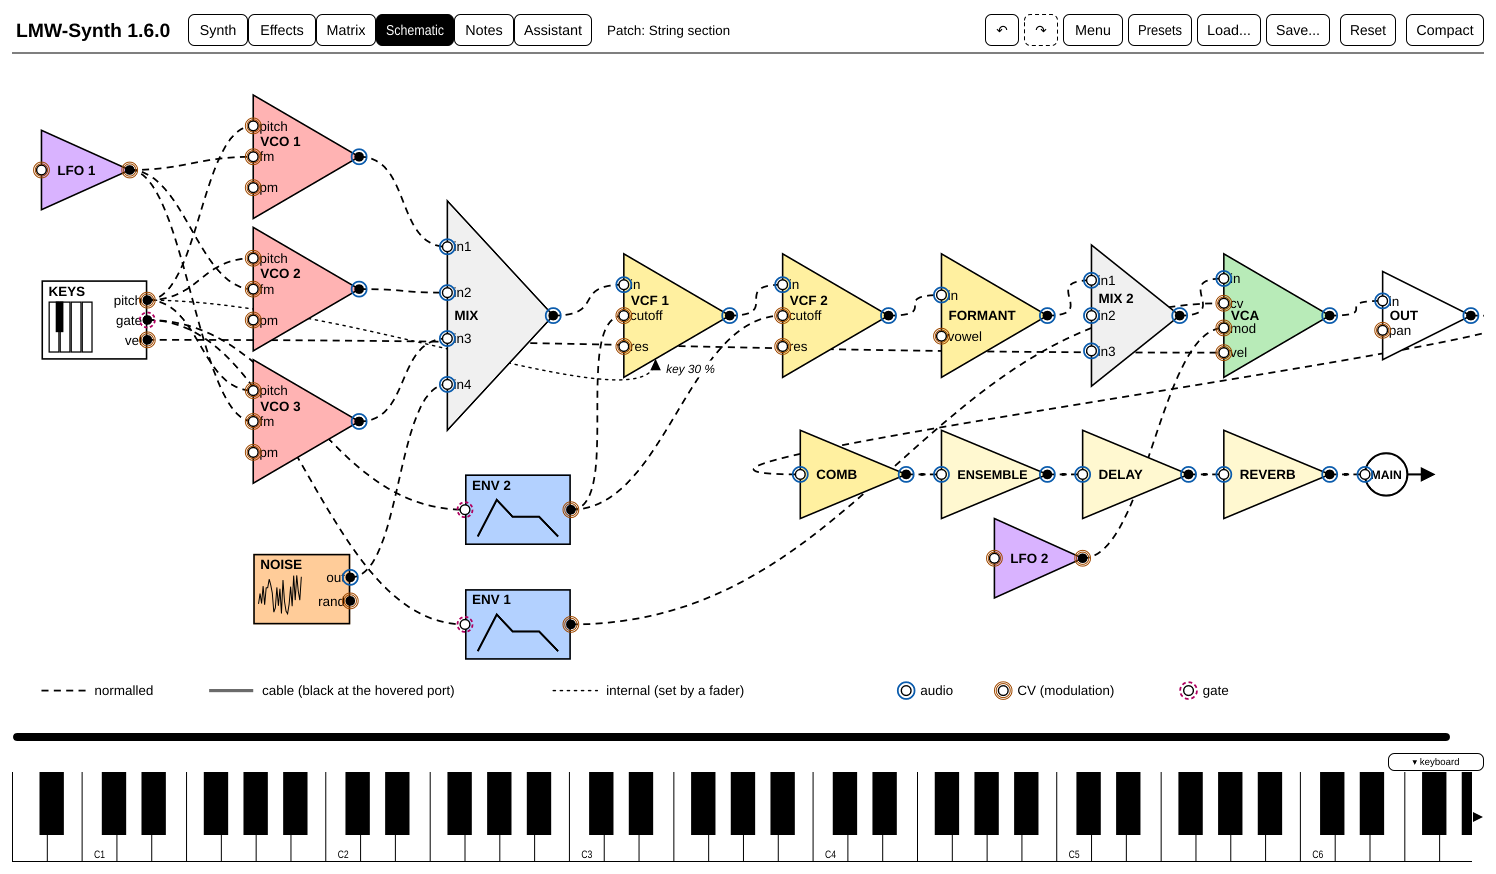
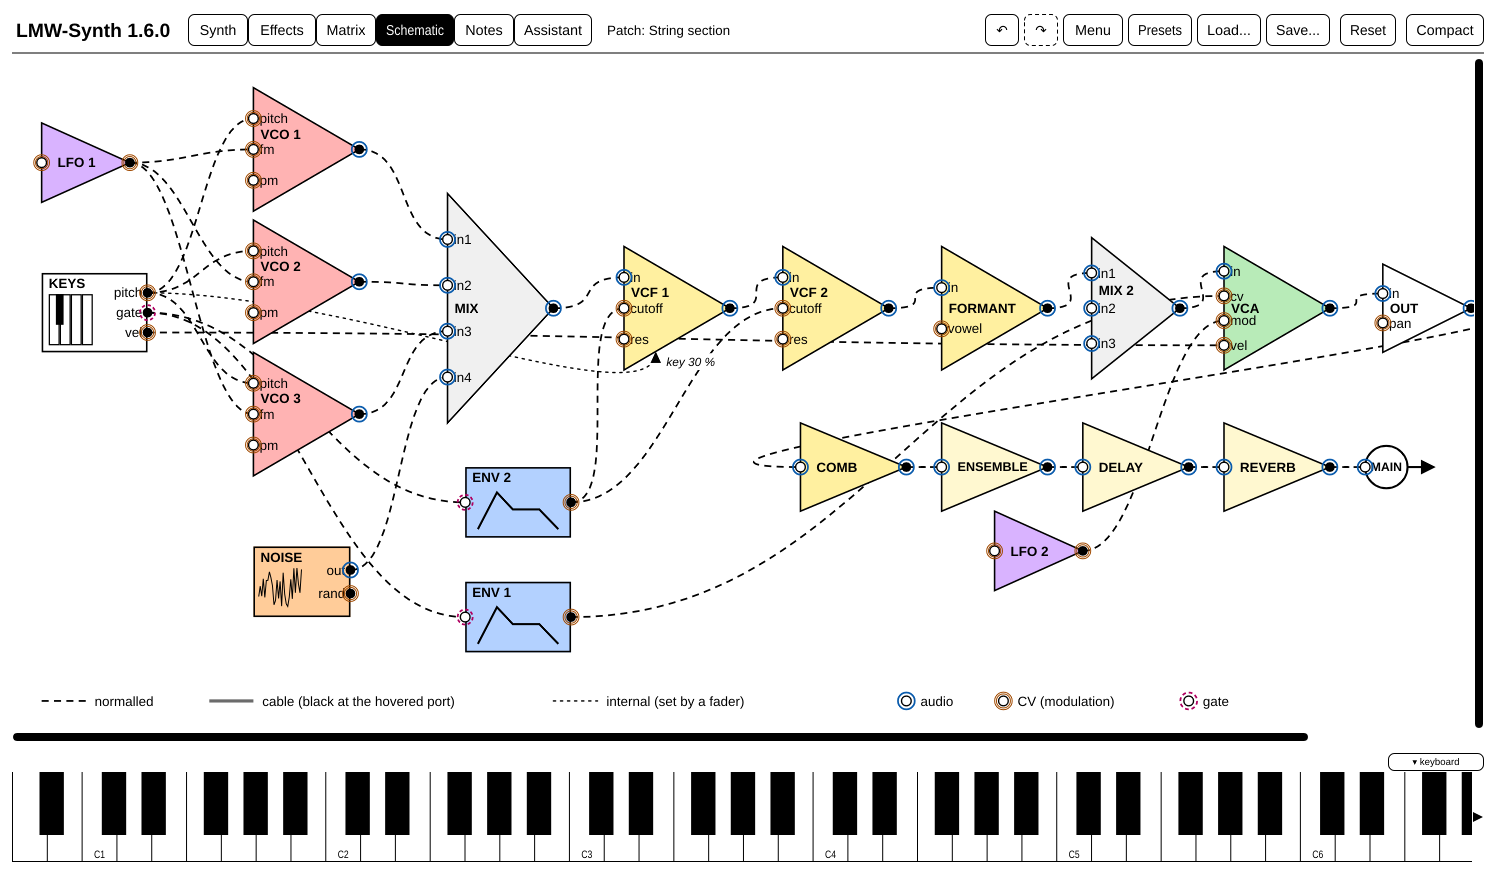
39b: Schematic blocks may use the whole page (as large as the view, growing beyond the furthest block; legend at the page's bottom; stored layouts up to 1000 x 500); pictures retaken; logged

diff --git a/src/ui/Schematic.h b/src/ui/Schematic.h
@@ -47,7 +47,10 @@ struct Block {
     theme::Unit unit() const noexcept { return theme::unitOf(name); }
 };
 
-inline constexpr float canvasWidth = 168.0f, canvasHeight = 72.0f;   // 152 before the effects (S7.6), 136 before FORMANT (S5.16)
+inline constexpr float canvasWidth = 168.0f, canvasHeight = 72.0f;
+// Spec S6.22 (39b, user 2026-11-26: "allow elements to use the complete page"): blocks may be placed anywhere on the
+// page the view shows (at least the canvas above); stored layouts are accepted up to this size.
+inline constexpr float maxPageWidth = 1000.0f, maxPageHeight = 500.0f;   // 152 before the effects (S7.6), 136 before FORMANT (S5.16)
 // Names are drawn inside the symbols (user 2026-11-13), so a block needs no room above it.
 
 inline const std::vector<Block>& blocks() {
@@ -88,7 +91,8 @@ inline std::string blockId(std::string_view name) {
 }
 
 // Phase 12c: where each block is (its top-left corner, canvas units, on a 1-unit grid). The default is the
-// drawing of Phase 12a. A block may be moved anywhere on the canvas where it does not overlap another block and stays clear of the legend at the bottom.
+// drawing of Phase 12a. A block may be moved anywhere on the page where it does not overlap another block and stays clear
+// of the legend at the bottom. The page is the canvas, or larger: the part of the view the Schematic shows (S6.22, 39b).
 class Layout {
 public:
     Layout() { for (const auto& b : blocks()) pos.push_back({b.box.x, b.box.y}); }
@@ -109,10 +113,19 @@ public:
         Rect r = blocks()[i].box;
         r.x = p.x;
         r.y = p.y;
-        if (r.x < 0 || r.right() > canvasWidth || r.y < 0 || r.bottom() > canvasHeight - 4) return false;
+        if (r.x < 0 || r.right() > pageW || r.y < 0 || r.bottom() > pageH - 4) return false;
         for (std::size_t j = 0; j < pos.size(); ++j)
             if (j != i && room(r).intersects(room(box(j)))) return false;
         return true;
+    }
+    // S6.22 (39b): the page the blocks may use (canvas units), at least the canvas; and how far the blocks reach.
+    void setPage(float w, float h) { pageW = std::clamp(w, canvasWidth, maxPageWidth); pageH = std::clamp(h, canvasHeight, maxPageHeight); }
+    float pageWidth() const noexcept { return pageW; }
+    float pageHeight() const noexcept { return pageH; }
+    Point extent() const {
+        Point e{0, 0};
+        for (std::size_t i = 0; i < pos.size(); ++i) { const auto r = box(i); e.x = std::max(e.x, r.right()); e.y = std::max(e.y, r.bottom()); }
+        return e;
     }
     // Moves block i to `p` (snapped) if it fits there.
     bool move(std::size_t i, Point p) {
@@ -144,6 +157,7 @@ public:
     // entry, or a result where a block does not fit.
     static std::optional<Layout> parse(std::string_view text) {
         Layout l;
+        l.setPage(maxPageWidth, maxPageHeight);   // S6.22 (39b): a stored layout may use a large page
         std::vector<bool> named(l.pos.size(), false);
         while (!text.empty()) {
             const auto semi = text.find(';');
@@ -169,7 +183,7 @@ public:
         for (std::size_t i = 0; i < l.pos.size(); ++i) {           // the others: inside, not on each other
             if (!named[i] && later(blocks()[i].name)) continue;
             const Rect r = l.box(i);
-            if (r.x < 0 || r.right() > canvasWidth || r.y < 0 || r.bottom() > canvasHeight - 4) return std::nullopt;
+            if (r.x < 0 || r.right() > maxPageWidth || r.y < 0 || r.bottom() > maxPageHeight - 4) return std::nullopt;
             for (std::size_t j = 0; j < l.pos.size(); ++j)
                 if (j != i && (named[j] || !later(blocks()[j].name)) && r.intersects(l.box(j))) return std::nullopt;
         }
@@ -196,6 +210,7 @@ private:
         return r.ec == std::errc{} && r.ptr == s.data() + s.size() && v >= 0 && v <= 1000;
     }
     std::vector<Point> pos;
+    float pageW = canvasWidth, pageH = canvasHeight;
 };
 
 inline const Layout& defaultLayout() {

diff --git a/src/app/SchematicView.cpp b/src/app/SchematicView.cpp
@@ -38,9 +38,19 @@ float SchematicView::scale() const noexcept {
     return textPx / 1.7f * zoomFactor();
 }
 
+// Spec S6.22 (39b, user 2026-11-26: "allow elements to use the complete page"): the drawing starts at the top-left
+// (12 px margin) on a page as large as the view; it is at least the canvas, and reaches 20 units beyond the furthest
+// block (8 below it, for the legend), so a block moved to the edge always has room to go on (the view then scrolls).
 juce::Point<int> SchematicView::drawingSize() const noexcept {
     const float s = scale();
-    return {juce::roundToInt(sc::canvasWidth * s) + 24, juce::roundToInt(sc::canvasHeight * s) + 24};
+    const auto e = layout.extent();
+    const float w = std::max(sc::canvasWidth, e.x + 20.0f), h = std::max(sc::canvasHeight, e.y + 8.0f);
+    return {juce::roundToInt(w * s) + 24, juce::roundToInt(h * s) + 24};
+}
+
+void SchematicView::updatePage() {
+    const float s = scale();
+    layout.setPage((static_cast<float>(getWidth()) - 24.0f) / s, (static_cast<float>(getHeight()) - 24.0f) / s);
 }
 
 // Spec S6.22: Ctrl (Cmd) + wheel zooms in steps; the wheel alone goes to the view around it (it scrolls).
@@ -53,18 +63,14 @@ void SchematicView::mouseWheelMove(const juce::MouseEvent& e, const juce::MouseW
     juce::Component::mouseWheelMove(e, w);
 }
 
-juce::Point<float> SchematicView::toScreen(sc::Point p) const noexcept {
+juce::Point<float> SchematicView::toScreen(sc::Point p) const noexcept {   // S6.22 (39b): from the top-left
     const float s = scale();
-    const float ox = (static_cast<float>(getWidth()) - sc::canvasWidth * s) / 2;
-    const float oy = (static_cast<float>(getHeight()) - sc::canvasHeight * s) / 2;
-    return {ox + p.x * s, oy + p.y * s};
+    return {12.0f + p.x * s, 12.0f + p.y * s};
 }
 
 sc::Point SchematicView::toCanvas(juce::Point<float> p) const noexcept {
     const float s = scale();
-    const float ox = (static_cast<float>(getWidth()) - sc::canvasWidth * s) / 2;
-    const float oy = (static_cast<float>(getHeight()) - sc::canvasHeight * s) / 2;
-    return {(p.x - ox) / s, (p.y - oy) / s};
+    return {(p.x - 12.0f) / s, (p.y - 12.0f) / s};
 }
 
 juce::Rectangle<float> SchematicView::toScreen(const sc::Rect& r) const noexcept {
@@ -403,7 +409,7 @@ void SchematicView::paint(juce::Graphics& g) {
 
     // Legend.
     g.setFont(juce::FontOptions(1.7f * s));
-    const auto l0 = toScreen(sc::Point{2, sc::canvasHeight - 2.5f});
+    const auto l0 = toScreen(sc::Point{2, layout.pageHeight() - 2.5f});   // S6.22 (39b): at the page's bottom
     juce::Path dashedSample, sample;
     sample.startNewSubPath(l0.x, l0.y);
     sample.lineTo(l0.x + 5 * s, l0.y);
@@ -623,6 +629,8 @@ bool SchematicView::keyPressed(const juce::KeyPress& key) {
 void SchematicView::setLayout(const juce::String& text) {
     shownLayout = text;
     layout = sc::Layout::parse(text.toStdString()).value_or(sc::Layout());
+    updatePage();
+    if (onSizeChange) onSizeChange();                      // a stored layout may reach further (39b)
     repaint();
 }
 
@@ -633,6 +641,7 @@ void SchematicView::poll(const juce::String& layoutText) {
 
 void SchematicView::resetLayout() {
     layout = sc::Layout();
+    updatePage();
     layoutChanged();
     repaint();
 }
@@ -640,6 +649,7 @@ void SchematicView::resetLayout() {
 void SchematicView::layoutChanged() {
     shownLayout = layout.isDefault() ? juce::String() : juce::String(layout.serialize());
     if (onLayoutChange) onLayoutChange(shownLayout);
+    if (onSizeChange) onSizeChange();                      // S6.22 (39b): the page grows with the blocks
 }
 
 void SchematicView::mouseExit(const juce::MouseEvent&) {

diff --git a/src/app/SchematicView.h b/src/app/SchematicView.h
@@ -65,12 +65,14 @@ public:
     // Spec S6.22 (Phase 39): drawn at the Synth tab's text size — names and port labels 15 px (compact 13 px) at
     // zoom 100 % — instead of filling the tab; zoom steps 75 / 100 / 125 / 150 % (Ctrl + wheel, Ctrl + / − / 0).
     // The editor shows it in a view: centred when smaller, scrolling when larger (drawingSize()).
-    void setCompact(bool compact) { textPx = compact ? 13.0f : 15.0f; if (onSizeChange) onSizeChange(); repaint(); }
+    void setCompact(bool compact) { textPx = compact ? 13.0f : 15.0f; if (onSizeChange) onSizeChange(); updatePage(); repaint(); }
     static constexpr std::array<float, 4> zoomSteps{0.75f, 1.0f, 1.25f, 1.5f};
-    void setZoom(int step) { zoomStep = std::clamp(step, 0, static_cast<int>(zoomSteps.size()) - 1); if (onSizeChange) onSizeChange(); repaint(); }
+    void setZoom(int step) { zoomStep = std::clamp(step, 0, static_cast<int>(zoomSteps.size()) - 1); if (onSizeChange) onSizeChange(); updatePage(); repaint(); }
     int zoomIndex() const noexcept { return zoomStep; }
     float zoomFactor() const noexcept { return zoomSteps[static_cast<std::size_t>(zoomStep)]; }
     juce::Point<int> drawingSize() const noexcept;        // the drawing with a margin, at the current scale
+    void resized() override { updatePage(); }
+    void updatePage();                                     // 39b: the page the blocks may use = this component's size
     std::function<void()> onSizeChange;                    // the editor lays out the view again
     void mouseWheelMove(const juce::MouseEvent&, const juce::MouseWheelDetails&) override;
     void setRings(bool on) { rings = on; repaint(); }                             // Spec S6.20

diff --git a/tests/test_schematic.cpp b/tests/test_schematic.cpp
@@ -232,6 +232,19 @@ int main() {
         CHECK(!sc::Layout::parse("lfo2:110"));                  // malformed
         CHECK(!sc::Layout::parse("lfo2:-5,3"));                 // negative
         CHECK(!sc::Layout::parse("vcf2:68,20"));                // on top of VCF 1
+        {   // S6.22 (39b): the page — at least the canvas; beyond it only on a larger page; stored layouts may use a large page
+            sc::Layout big;
+            const auto vco1 = *sc::findBlock("VCO 1");
+            CHECK(!big.fits(vco1, {200, 30}));                  // the canvas page: no room at x 200
+            big.setPage(300, 150);
+            CHECK(big.fits(vco1, {200, 30}) && big.move(vco1, {200, 30}) && big.extent().x >= 212);
+            CHECK(!big.fits(vco1, {290, 30}));                  // beyond the page
+            const auto far = sc::Layout::parse("vco1:400,200");
+            CHECK(far && far->position(vco1).x == 400);
+            CHECK(!sc::Layout::parse("vco1:2000,10"));          // beyond the largest page
+            big.setPage(10, 10);
+            CHECK(big.pageWidth() == sc::canvasWidth && big.pageHeight() == sc::canvasHeight);   // never below the canvas
+        }
         // S5.16: a layout saved before FORMANT existed (the old places of VCF 2, VCA, OUT, LFO 2): the
         // named blocks stay where they were; FORMANT, whose default place is taken by the VCA, gets a free one.
         {

diff --git a/architecture/Tests.md b/architecture/Tests.md
@@ -149,7 +149,7 @@
 | T-S5.26-mix2 | S5.26 | unit (tests/test_pan.cpp): defaults bit-identical (the default test of S5.25); MIX 2 In 1 Pan −1 → left only through the VCA and OUT; VCO spread patch: VCF 1 only → left only, VCF 2 only → right only, both → different sides; vca.in = formant.out → mono; OUT Pan +1 on an all-left voice → silence. Counts: 39 inputs / 23 outputs (test_formant, test_lforate), types 17 / 20 / 2 and 15 / 7 / 1 (test_pins), 21 Schematic blocks and 28 / 29 / 30 connections (test_schematic), 20 instruments with Choral flute (test_instruments; host test 4h sets its values), /info 85. Xvfb (1920 × 1080, via /snapshot): MIX 2 panel at the end of row 2, FORMANT at the end of row 1, window 1834 wide, Schematic MIX 2 block with the Choral flute cables | pass (2026-11-26, Linux native, Xvfb) |
 | T-S7.13-world | S7.13 | unit (test_instruments): 33 instruments, 13 in the World group by name, each with voices and a reverb, cables parse; host 4h: every value of every preset set over 9P and read back. Xvfb: Presets ▸ World lists the 13; Gamelan applies (name, 12 voices, VCO 2 −2.6 st, Spread 50 %, cable vco1.pm = vco2.out) | pass (2026-11-26, Linux native, Xvfb) |
 | T-S6.21-pan | S6.21 | Xvfb (1920 × 1080 screen, window 1280 × 720): no bars at full size (scroll 0 0), bars at 1280 × 720; wheel → scroll 0 132, Shift + wheel → 88 132; a drag on the gap between LFO 1 and VCO 1 (−100, −50) → 100 50; End → 564 166, Home → 0 0; Tab to VCO 2's FM socket → 393 0 with it in view; cables stay on their sockets at /view scroll 400 200; the header fits at 1280 (short texts); host test: /view scroll line and write, the window check (1600 × 900) passes again | pass (2026-11-26, Linux native, Xvfb) |
-| T-S6.22-schematic-text | S6.22 | Xvfb (1920 × 1080, via /view and /snapshot): the drawing centred at the text size (VCO 1 block 107 × 125 px at 100 %); Ctrl + 3 × → 150 % (160 × 186), Ctrl 0 → 100 %, Ctrl − → 75 % (80 × 93), Ctrl + wheel up → 125 % (133 × 155); at 1280 × 720 the drawing scrolls (bars); host test with a display: /view Schematic lines | pass (2026-11-26, Linux native, Xvfb) |
+| T-S6.22-schematic-text | S6.22 | Xvfb (1920 × 1080, via /view and /snapshot): the drawing centred at the text size (VCO 1 block 107 × 125 px at 100 %); Ctrl + 3 × → 150 % (160 × 186), Ctrl 0 → 100 %, Ctrl − → 75 % (80 × 93), Ctrl + wheel up → 125 % (133 × 155); at 1280 × 720 the drawing scrolls (bars); host test with a display: /view Schematic lines ; 39b: test_schematic — no room beyond the canvas on the canvas page, a block at x 200 on a 300 × 150 page, beyond the page refused, a stored layout at 400, 200 accepted, 2000 refused, the page never below the canvas; Xvfb: LFO 2 dragged to the far right of the page (moved, saved in [schematic], the page grows with a scroll bar, the legend at the bottom) | pass (2026-11-26, Linux native, Xvfb) |
 | T-S7.5-presets | S7.5 | test_presets: kindOf for every module (lfo1, vco4 refused); all 99 built-in presets (53 + 30 FORMANT since S5.16 + 9 COMB + 7 DELAY since 2026-11-21; comb and delay kinds, folder DELAY; COMB has Flute, Oboe, Clarinet, Bassoon, Guitar (plucked)) set every key of their kind in panel order with unique names, Flute/Recorder/Oboe/Clarinet present for ENV, VCF and VCO; write → parse round trip; parse ignores comments, CRLF and unknown keys, keeps the last of a key twice; refuses another module, no format, format 2, no module line; file names sanitised | pass (2026-11-18; CI run 44348905763 on all four) |
 | T-S7.5-values | S7.5, S10.10 | Host test 4f: every value of every built-in preset written over 9P to env2, vcf2, vco3, reverb and (since S5.16) formant is accepted and reads back as written (246 of 246; 366 of 366 with FORMANT, 2026-11-20; 461 of 461 with comb and delay, 2026-11-21) | pass (2026-11-18, Linux native + Ubuntu 24 container; CI run 44348905763 on all four) |
 | T-S7.5-gui | S7.5 | Xvfb: Presets buttons on VCO 1–3, VCF 1–2, ENV 1–2 and REVERB, also in compact view; ENV 1 Piano sets 2 ms / 3.00 s / 0 % / 500 ms; Save as preset... (name field focused at once) writes ENV/My piano.lmwpreset with attack = 0.002, decay = 3, sustain = 0, release = 0.5; "Typed/name" → Typed_name.lmwpreset; ENV 2's menu lists them under "Your presets" and My piano sets ENV 2; REVERB Cathedral sets 35 / 95 / 30 / 100 % | pass (2026-11-18, Xvfb) |

diff --git a/architecture/Spec.md b/architecture/Spec.md
@@ -202,6 +202,7 @@ S6.22 Schematic at the Synth tab's text size (Plan L29 → Phase 39, user 2026-1
 - Zoom: Ctrl + wheel and Ctrl + / Ctrl − change the scale in steps (75 %, 100 %, 125 %, 150 % of the text size; Ctrl 0 back to 100 %), shown in the hover text; not saved.
 - The room this frees (about a fifth of the width, a quarter of the height) is for later: more blocks (MIX 2 has one already), a side panel with the selected block's controls.
 - As built (Phase 39): SchematicView::scale = text size / 1.7 × zoom (15 px, compact 13 px; zoom steps 75 / 100 / 125 / 150 %), drawingSize = the canvas at that scale + 24 px; the editor shows it in schematicView (a Viewport that passes keys on), the surface the drawing or the view, whichever is larger (layoutSchematic; centred inside). Ctrl (Cmd) + wheel and Ctrl + / − / 0 when the Schematic has the focus; the wheel alone scrolls the view; the empty space's hover text says the zoom and the keys. /view's Schematic panel lines in editor pixels. At 1920 × 1080: the drawing about 1490 × 650 px (VCO 1 107 × 125 px at 100 %, 160 × 186 at 150 %).
+- The whole page (39b, user 2026-11-26: "looks great, on the schematic view allow elements to use the complete page (currently there is a limit based on the old page size)"): the drawing starts at the top-left (12 px margin) of a page as large as the view; blocks can be moved anywhere on it (clear of the legend, now at the page's bottom); the page reaches 20 units beyond the furthest block (8 below it), so a block at the edge makes the view scroll and can go on. Stored layouts are accepted up to 1000 × 500 units (the canvas, 168 × 72, stays the default drawing and the smallest page). Layout::setPage / pageWidth / pageHeight / extent (src/ui/Schematic.h); SchematicView::updatePage on every size or zoom change.
 - Tests: the scale gives 15 px labels at 100 % in normal view, 13 px compact; centred at 1920 × 1080; zoom steps; panning when the window is small.
 
 ## S7 Persistence

diff --git a/architecture/Changes.md b/architecture/Changes.md
@@ -3,6 +3,7 @@
 Changes between releases.
 
 ## Unreleased
+- 2026-11-26: Schematic symbols can be moved anywhere on the whole page (it starts at the top-left and grows as you move a symbol to the edge).
 - 2026-11-26: The Schematic uses the Synth tab's text size (it filled the tab before, with larger text): Ctrl + wheel or Ctrl + / − zooms in steps (75–150 %), Ctrl 0 back to 100 %; in a small window it scrolls.
 - 2026-11-26: The rack scrolls when it is larger than the window: scroll bars, the mouse wheel (Shift + wheel sideways), dragging the empty space, Home / End, and Tab brings a control into view. The window can now be as small as 1280 × 720 (the header gets shorter texts); a first window still shows the whole rack.
 - 2026-11-26: Presets ▸ World: Shakuhachi, Bansuri, Pan flute, Duduk, Erhu, Shamisen, Koto, Sitar, Oud, Kalimba, Gamelan, Steel pan and Didgeridoo, made from the existing modules. Organ and Electric piano (FM) now spread by keys too (low left, high right).

diff --git a/architecture/Conversation-2026-11-26.md b/architecture/Conversation-2026-11-26.md
@@ -37,3 +37,5 @@
 ## Crosscheck after Phases 38–39
 
 - Committed 89b20f1. Code vs S6.21, S6.22: as built (noted there). Stale lines fixed: S6.5 (at most 6 rows, the rack scrolls), S6.7 (the view no longer fills the tab: text size and zoom), S6.16 (the window may be smaller than the rack). Plan header. 40 of 40. Open: CI after the push (38 mends macOS / Windows).
+- Committed 89b20f1 (39) and eb5d74a (crosscheck). 39b done: the Schematic page as large as the view (top-left), blocks anywhere on it, the page grows 20 units beyond the furthest block, the legend at the page's bottom, stored layouts up to 1000 × 500; test_schematic; Xvfb (LFO 2 to the far right). 40 of 40.
+- User: commit.
